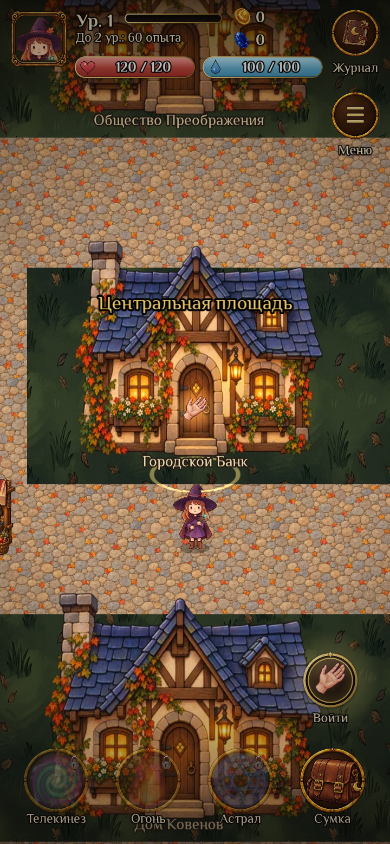
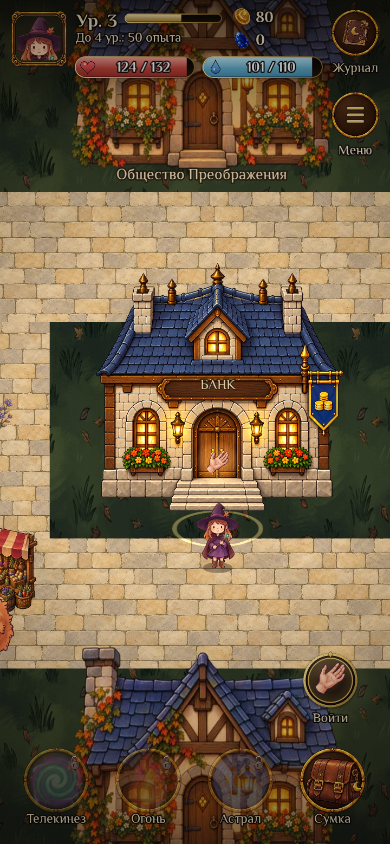
Finish square, Bank and Archive art and interaction paths

diff --git a/src/config/city.plan.js b/src/config/city.plan.js
@@ -1,4 +1,4 @@
-// Playable blockout of the approved spacious town. Coordinate islands use the
+// Approved spacious town with production art for the square, Bank and Archive. Coordinate islands use the
 // existing server-persisted x/y format; rooms never overlap outdoor locations.
 export const CITY_ORIGIN = { x: 6720, y: 600 };
 export const CITY_RECT = { x: 6000, y: 600, w: 3720, h: 4320 };
@@ -19,7 +19,7 @@ export const BUILDINGS = [
   ['lab','Тайная лаборатория',-700,2920,380,380,-510,3300,'ch2_lab_open'],
 ].map(([id,name,x,y,w,h,dx,dy,requires]) => ({ id,name,...cityPoint(x,y),w,h,door:cityPoint(dx,dy),requires }));
 const layouts = [
-  ['bank','Городской Банк',10200,200,720,960],
+  ['bank','Городской Банк',10200,200,720,1440],
   ['archive','Городской Архив',11800,200,900,1500],
   ['society','Общество Преображения',13400,200,900,1320],
   ['lab','Тайная лаборатория',10200,2600,960,2160],
@@ -54,8 +54,9 @@ export const CITY_POSITIONS = Object.fromEntries([
   ['city_board',cityPoint(370,2430)],['npc_merchant',cityPoint(2120,2930)],
   ['plaza_trace',cityPoint(1540,2740)],['plaza_debris',cityPoint(1930,2370)],
   ['sapphire_city_cache_1',cityPoint(730,2710)],['sapphire_city_cache_2',cityPoint(2040,3470)],
-  ['npc_ilaria',rp('archive',260,1050)],['archive_document',rp('archive',330,650)],
-  ['npc_severin',rp('society',360,710)],['npc_banker',rp('bank',360,510)],
+  // The document sorts one pixel in front of the desk, with its art on the tabletop.
+  ['npc_ilaria',rp('archive',260,1050)],['archive_document',{...rp('archive',330,716),elevated:41}],
+  ['npc_severin',rp('society',360,710)],['npc_banker',{...rp('bank',360,350),approach:rp('bank',360,510)}],
   ['npc_rowena',rp('coven',270,610)],['npc_duelist',rp('duel',260,1280)],
   ['frost_barrier',{...cityPoint(1500,1520),collide:{w:540,h:40},editorStyle:{w:580,h:160}}],
   ['fq_water',{...cityPoint(1500,780),collide:{w:540,h:40},editorStyle:{w:540,h:90}}],
@@ -102,16 +103,16 @@ export function cityZoneData() {
 const rect=(id,x,y,w,h,tex,more={})=>({id,...cityPoint(x,y),w,h,tex,...more});
 export function cityMapData() {
   const grounds=[
-    rect('city_plaza',600,2220,1640,680,'city_paving'),
-    rect('city_avenue',1100,40,800,4240,'city_paving'),
-    rect('city_carriage_lane',1320,40,360,4240,'city_paving',{tint:0xa99c85}),
-    rect('city_entry',-720,2300,1320,440,'stone_path_01'),
+    rect('city_plaza',600,2220,1640,680,'city_final_paving',{tileScale:0.18}),
+    rect('city_avenue',1100,40,800,4240,'city_final_paving',{tileScale:0.18}),
+    rect('city_entry',-720,2300,1320,440,'city_final_paving',{tileScale:0.18}),
     rect('city_lab_path',-300,2740,240,800,'dirt_path_01'),
-    rect('city_lab_forecourt',-700,3300,640,240,'stone_path_01'),
-    rect('city_frost_quarter',40,800,2920,680,'city_paving_frost',{alpha:0.55,layerOffset:0.2}),
-    rect('city_frost_plaza',600,2220,1640,680,'city_paving_frost',{alpha:0.6,layerOffset:0.2}),
-    ...[560,1260,2100,2740,3400,4100].map((y,i)=>rect('city_cross_'+i,60,y,2880,240,'city_paving')),
-    ...CITY_ROOMS.map(r=>({id:'floor_'+r.id,...r.rect,tex:['archive','coven','bank','cellar','rescue'].includes(r.key)?'city_wood_floor':'city_stone_floor',interior:true})),
+    rect('city_lab_forecourt',-700,3300,640,240,'city_final_paving',{tileScale:0.18}),
+    ...[560,1260,2100,2740,3400,4100].map((y,i)=>rect('city_cross_'+i,60,y,2880,240,'city_final_paving',{tileScale:0.18})),
+    rect('city_carriage_lane',1320,40,360,4240,'city_final_paving',{tileScale:0.18,tint:0xc4b499}),
+    rect('city_frost_quarter',40,800,2920,680,'city_final_paving',{tileScale:0.18,tint:0x92cddd,alpha:0.55,layerOffset:0.2}),
+    rect('city_frost_plaza',600,2220,1640,680,'city_final_paving',{tileScale:0.18,tint:0x92cddd,alpha:0.6,layerOffset:0.2}),
+    ...CITY_ROOMS.map(r=>({id:'floor_'+r.id,...r.rect,tex:['archive','bank'].includes(r.key)?'city_final_wood_floor':['coven','cellar','rescue'].includes(r.key)?'city_wood_floor':'city_stone_floor',tileScale:['archive','bank'].includes(r.key)?0.22:0.5,interior:true})),
   ];
   const colliders=[];
   const col=(id,x,y,w,h,kind='ruin',extra={})=>colliders.push({id:'city_plan_'+id,...cityPoint(x,y),w,h,kind,...extra});
@@ -121,9 +122,10 @@ export function cityMapData() {
   // Forest confines the approach without blocking the side path to the lab.
   [[-720,0,720,2300],[-720,2740,420,180],[-60,2740,60,1580],[-720,3540,720,780]].forEach((a,i)=>col('edge_'+i,...a,'trees'));
   for(const b of BUILDINGS)colliders.push({id:'city_plan_building_'+b.id,kind:'furniture',x:b.x,y:b.y,w:b.w,h:b.h,
-    tex:b.id.startsWith('warehouse_')?'city_warehouse':b.id==='rescue'?'city_frozen_house':'city_house',
-    editorStyle:{w:b.w,h:b.h},building:b.id});
-  col('fountain',860,2460,180,180,'furniture',{tex:'city_fountain',editorStyle:{w:180,h:230}});
+    tex:b.id==='bank'?'city_final_bank_exterior':b.id==='archive'?'city_final_archive_exterior':b.id.startsWith('warehouse_')?'city_warehouse':b.id==='rescue'?'city_frozen_house':'city_house',
+    editorStyle:{w:b.w,h:b.id==='bank'?460:b.id==='archive'?490:b.h},building:b.id});
+  col('fountain',860,2460,180,180,'furniture',{tex:'city_final_fountain',editorStyle:{w:210,h:200}});
+  for(const [i,[x,y]] of [[710,2390],[710,2770],[1940,2540]].entries())col('bench_'+i,x,y,160,28,'furniture',{tex:'city_final_bench'});
   col('market',2010,2800,220,80,'furniture',{tex:'market_stall_01'});
   for(const r of CITY_ROOMS) {
     const {x,y,w,h}=r.rect,t=24;
@@ -133,12 +135,15 @@ export function cityMapData() {
     for(const dx of xs){colliders.push({id:r.id+'_wall_bottom_'+dx,kind:'wall',tex:'city_timber',x:x+last,y:y+h-t,w:dx-90-last,h:t});last=dx+90;}
     colliders.push({id:r.id+'_wall_end',kind:'wall',tex:'city_timber',x:x+last,y:y+h-t,w:w-last,h:t});
   }
-  const furniture=(key,id,x,y,w,h,tex)=>colliders.push({id:'room_'+id,kind:'furniture',...rp(key,x,y),w,h,tex});
-  furniture('bank','counter',235,355,250,35,'city_bank_counter');
+  const furniture=(key,id,x,y,w,h,tex,extra={})=>colliders.push({id:'room_'+id,kind:'furniture',...rp(key,x,y),w,h,tex,...extra});
+  furniture('bank','counter',150,400,420,40,'city_final_bank_counter');
   furniture('bank','safe',520,230,80,35,'city_bank_safe');
-  furniture('archive','shelf_left',70,280,140,35,'city_archive_shelf');
-  furniture('archive','shelf_right',630,280,140,35,'city_archive_shelf');
-  furniture('archive','desk',245,680,160,35,'city_archive_desk');
+  furniture('archive','shelf_left',50,380,170,35,'city_final_archive_shelf');
+  furniture('archive','shelf_right',680,380,170,35,'city_final_archive_shelf');
+  furniture('archive','shelf_middle_left',50,800,170,35,'city_final_archive_shelf');
+  furniture('archive','shelf_middle_right',680,800,170,35,'city_final_archive_shelf');
+  furniture('archive','shelf_lower_right',680,1170,170,35,'city_final_archive_shelf');
+  furniture('archive','desk',220,680,240,35,'city_final_archive_desk');
   furniture('society','bench',110,350,190,40,'city_society_workbench');
   furniture('society','reservoir',690,370,70,40,'city_coolant_stable');
   furniture('coven','table',130,380,170,30,'city_coven_table');
@@ -154,10 +159,23 @@ export function cityMapData() {
   furniture('warehouse','crate_b',1170,300,100,30,'city_crate');
   for(const key of ['cellar','rescue']){furniture(key,key+'_bed',100,320,70,30,'bed_01');furniture(key,key+'_shelf',510,250,140,35,'city_archive_shelf');}
   const props=[];
+  const roomProp=(key,id,k,x,y,extra={})=>props.push({id:'room_decor_'+key+'_'+id,k,...rp(key,x,y),solid:null,...extra});
+  roomProp('bank','back_wall','city_final_bank_wall',360,250,{l:'back'});
+  roomProp('archive','back_wall','city_final_archive_wall',450,290,{l:'back'});
+  roomProp('bank','rug','city_final_bank_rug',360,760,{l:'room-floor'});
+  roomProp('archive','rug','city_final_archive_rug',450,1210,{l:'room-floor'});
+  roomProp('bank','waiting_bench','city_final_bench',140,650,{solid:{w:150,h:24}});
+  roomProp('bank','entry_bench','city_final_bench',580,1130,{solid:{w:150,h:24}});
+  roomProp('bank','entry_plant','plant_pot_01',70,1240,{solid:{w:28,h:14}});
+  roomProp('bank','plant_left','plant_pot_01',70,510,{solid:{w:28,h:14}});
+  roomProp('bank','plant_right','plant_pot_01',650,510,{solid:{w:28,h:14}});
+  roomProp('archive','plant_left','plant_pot_01',80,1300,{solid:{w:28,h:14}});
+  roomProp('archive','plant_right','plant_pot_01',820,1300,{solid:{w:28,h:14}});
   const prop=(id,k,x,y,extra={})=>props.push({id:'city_plan_'+id,k,...cityPoint(x,y),solid:null,...extra});
   for(const [i,[x,y]] of [[1050,2160],[1940,2160],[1050,2900],[1940,2900],[1040,3490],[1940,3490],[80,550],[2900,550]].entries())prop('lamp_'+i,'city_lamp_01',x,y);
   for(const [i,[x,y]] of [[850,1750],[2100,1750],[820,3010],[2100,3010],[80,860],[2900,860],[80,3750],[2900,3750]].entries())prop('tree_'+i,i%2?'tree_autumn_01':'tree_autumn_02',x,y);
   prop('archive_sign','city_sign_archive',810,2140);prop('society_sign','city_sign_society',2110,2140);
+  for(const [i,[x,y]] of [[700,2560],[1080,2560],[710,2840],[2140,2540]].entries())prop('plaza_flowers_'+i,'flower_purple_01',x,y,{w:64,h:62});
   prop('duel_sign','city_sign_duel',890,3430);prop('coven_sign','city_sign_coven',2110,3430);
   return {grounds,colliders,props};
 }

diff --git a/supabase/functions/combat/index.ts b/supabase/functions/combat/index.ts
@@ -782,7 +782,7 @@ var BUILDINGS = [
   ["lab", "\u0422\u0430\u0439\u043D\u0430\u044F \u043B\u0430\u0431\u043E\u0440\u0430\u0442\u043E\u0440\u0438\u044F", -700, 2920, 380, 380, -510, 3300, "ch2_lab_open"]
 ].map(([id, name, x, y, w, h, dx, dy, requires]) => ({ id, name, ...cityPoint(x, y), w, h, door: cityPoint(dx, dy), requires }));
 var layouts = [
-  ["bank", "\u0413\u043E\u0440\u043E\u0434\u0441\u043A\u043E\u0439 \u0411\u0430\u043D\u043A", 10200, 200, 720, 960],
+  ["bank", "\u0413\u043E\u0440\u043E\u0434\u0441\u043A\u043E\u0439 \u0411\u0430\u043D\u043A", 10200, 200, 720, 1440],
   ["archive", "\u0413\u043E\u0440\u043E\u0434\u0441\u043A\u043E\u0439 \u0410\u0440\u0445\u0438\u0432", 11800, 200, 900, 1500],
   ["society", "\u041E\u0431\u0449\u0435\u0441\u0442\u0432\u043E \u041F\u0440\u0435\u043E\u0431\u0440\u0430\u0436\u0435\u043D\u0438\u044F", 13400, 200, 900, 1320],
   ["lab", "\u0422\u0430\u0439\u043D\u0430\u044F \u043B\u0430\u0431\u043E\u0440\u0430\u0442\u043E\u0440\u0438\u044F", 10200, 2600, 960, 2160],
@@ -852,10 +852,11 @@ var CITY_POSITIONS = Object.fromEntries([
   ["plaza_debris", cityPoint(1930, 2370)],
   ["sapphire_city_cache_1", cityPoint(730, 2710)],
   ["sapphire_city_cache_2", cityPoint(2040, 3470)],
+  // The document sorts one pixel in front of the desk, with its art on the tabletop.
   ["npc_ilaria", rp("archive", 260, 1050)],
-  ["archive_document", rp("archive", 330, 650)],
+  ["archive_document", { ...rp("archive", 330, 716), elevated: 41 }],
   ["npc_severin", rp("society", 360, 710)],
-  ["npc_banker", rp("bank", 360, 510)],
+  ["npc_banker", { ...rp("bank", 360, 350), approach: rp("bank", 360, 510) }],
   ["npc_rowena", rp("coven", 270, 610)],
   ["npc_duelist", rp("duel", 260, 1280)],
   ["frost_barrier", { ...cityPoint(1500, 1520), collide: { w: 540, h: 40 }, editorStyle: { w: 580, h: 160 } }],

diff --git a/src/world/CityPresentation.js b/src/world/CityPresentation.js
@@ -10,8 +10,9 @@ export class CityPresentation {
     this.scene = scene;
     this.images = [];
     for(const b of BUILDINGS){
-      const text=scene.add.text(b.door.x,b.door.y+25,b.name,{
-        fontFamily:'Philosopher',fontSize:'28px',color:'#e7d6ad',stroke:'#251c14',strokeThickness:5,
+      const plaque=b.id==='bank'||b.id==='archive';
+      const text=scene.add.text(b.door.x,b.door.y+(b.id==='bank'?-220:b.id==='archive'?-166:25),plaque?(b.id==='bank'?'БАНК':'АРХИВ'):b.name,{
+        fontFamily:'Philosopher',fontSize:plaque?'25px':'28px',color:'#e7d6ad',stroke:'#251c14',strokeThickness:plaque?3:5,
       }).setOrigin(0.5,1).setDepth(DEPTH.markers-2);
       this.images.push(text);
     }
@@ -34,9 +35,9 @@ export class CityPresentation {
         applyDisplaySize(im, im.texture.key);
       }
     }
-    const fountain = this.scene.colliderObjects?.find(im => ['fountain_frozen', 'city_fountain'].includes(im.texture?.key));
-    if (fountain && this.scene.textures.exists('city_fountain')) {
-      const key = !thawed && (state.hasEvent('ch2_city_arrived') || editor) ? 'fountain_frozen' : 'city_fountain';
+    const fountain = this.scene.colliderObjects?.find(im => ['city_final_fountain_frozen', 'city_final_fountain'].includes(im.texture?.key));
+    if (fountain && this.scene.textures.exists('city_final_fountain')) {
+      const key = !thawed && (state.hasEvent('ch2_city_arrived') || editor) ? 'city_final_fountain_frozen' : 'city_final_fountain';
       fountain.setTexture(key); applyDisplaySize(fountain, key);
     }
     for(const {c,img} of this.scene.colliderViews.values())if(c.editorStyle)this.scene.styleImage(img,c.editorStyle,img.texture.key);

diff --git a/src/config/assets.manifest.js b/src/config/assets.manifest.js
@@ -9,6 +9,7 @@
 
 import { CHAPTER2_FILES, CHAPTER2_SIZES } from './chapter2.art.generated.js';
 import { CITY_INTERIOR_FILES, CITY_INTERIOR_SIZES } from './city.interiors.generated.js';
+import { CITY_FINAL_FILES, CITY_FINAL_SIZES } from './city.final.art.js';
 
 export const ASSET_FILES = {
   welcome_cover: 'assets/ui/welcome-cover-v1.webp',
@@ -94,6 +95,8 @@ Object.assign(ASSET_FILES, CHAPTER2_FILES);
 Object.assign(DISPLAY_SIZE, CHAPTER2_SIZES);
 Object.assign(ASSET_FILES, CITY_INTERIOR_FILES);
 Object.assign(DISPLAY_SIZE, CITY_INTERIOR_SIZES);
+Object.assign(ASSET_FILES, CITY_FINAL_FILES);
+Object.assign(DISPLAY_SIZE, CITY_FINAL_SIZES);
 
 /** Рисунки-заглушки, не готовые к релизу. Оба героя используют финальные PNG. */
 export const TEMPORARY_ART = [];

diff --git a/src/config/city.final.art.js b/src/config/city.final.art.js
@@ -1,0 +1,13 @@
+// Production sprites, derived from the approved house and spacious town concepts.
+// World sprites use the bottom centre as their pivot; floor tiles stay walkable.
+const sizes = {
+  bank_exterior: [500, 460], archive_exterior: [540, 490],
+  paving: [224, 224], wood_floor: [276, 276],
+  bank_counter: [440, 147], archive_shelf: [220, 200], archive_desk: [260, 130],
+  bank_wall: [672, 224], archive_wall: [852, 284],
+  bench: [160, 80], fountain: [210, 200], fountain_frozen: [210, 200],
+  bank_rug: [360, 250], archive_rug: [410, 290],
+};
+export const CITY_FINAL_FILES = Object.fromEntries(Object.keys(sizes).map(k =>
+  ['city_final_' + k, 'assets/city-final/' + k + '-v1.webp']));
+export const CITY_FINAL_SIZES = Object.fromEntries(Object.entries(sizes).map(([k,v]) => ['city_final_' + k,v]));

diff --git a/src/scenes/ExplorationScene.js b/src/scenes/ExplorationScene.js
@@ -969,7 +969,8 @@ export class ExplorationScene extends Phaser.Scene {
     if (!this.canAct()) return;
     const wp = this.cameras.main.getWorldPoint(x, y);
     const obj = this.interaction.pick(wp.x, wp.y);
-    const goal = obj ? { x: obj.x, y: obj.y } : { x: wp.x, y: wp.y };
+    // Service NPCs can provide a visitor spot on the accessible side of furniture.
+    const goal = obj ? obj.cfg.approach || { x: obj.x, y: obj.y } : { x: wp.x, y: wp.y };
     const route = this.planPath(goal.x, goal.y);
     // куда на самом деле дойдём: закрытая цель → ближайшая достижимая точка (метка ставится туда)
     const end = route?.end || goal;

diff --git a/src/world/mapData.js b/src/world/mapData.js
@@ -74,6 +74,7 @@ export function applyPos(list, pos = {}) {
     if (!m || (!dx && !dy)) return out; // всегда копия: редактор меняет cfg, а исходные данные трогать нельзя
     out.x = cfg.x + dx; out.y = cfg.y + dy;
     if (cfg.target) out.target = { x: cfg.target.x + dx, y: cfg.target.y + dy };
+    if (cfg.approach) out.approach = { x: cfg.approach.x + dx, y: cfg.approach.y + dy };
     if (cfg.panOnOpen) out.panOnOpen = { x: cfg.panOnOpen.x + dx, y: cfg.panOnOpen.y + dy };
     return out;
   });

diff --git a/docs/releases/v0.36.0.md b/docs/releases/v0.36.0.md
@@ -1,6 +1,8 @@
-# v0.36.0 — просторный город и отдельные помещения
+# v0.36.0 — просторный город, отдельные помещения и графика Банка и Архива
 
-Игровая планировка согласованного города: центральная улица шириной 800 пикселей, отдельная полоса 360 пикселей под будущие кареты, поперечные проходы и свободные площадки перед домами. Двенадцать фасадов используют существующие игровые изображения. Это этап проверки масштаба и движения; новые индивидуальные фасады, интерьерная графика, прохожие, дети и кареты ещё не реализованы.
+Игровая планировка согласованного города: центральная улица шириной 800 пикселей, отдельная полоса 360 пикселей под будущие кареты, поперечные проходы и свободные площадки перед домами. Банк и Архив получили индивидуальные фасады и оформленные интерьеры из выбранного дизайн-пакета. На улицах — новая каменная мостовая, на площади — фонтан с обычным и замёрзшим состояниями, скамейки и цветы. Остальные десять фасадов используют прежние игровые изображения; их индивидуальная графика и городской трафик остаются следующим этапом.
+
+Новые помещения собраны из отдельных спрайтов: стены, паркет, стойка, книжные шкафы, письменный стол и ковры. Мебель перекрывает персонажа в зависимости от его положения, пол и ковры проходимы. Агата стоит за стойкой, нажатие на неё ведёт к месту посетителя перед стойкой. Илария и отдельный квестовый документ доступны через широкий центральный проход Архива. Подписи на фасадах рисуются игрой. Добавлены 14 WebP-изображений с отдельными ключами; старые файлы сохранены. Описания генерации находятся в `public/assets/city-final/provenance.json`.
 
 Банк, Архив, Общество Преображения, лаборатория, Дуэльный зал, Ковены, складской комплекс и два спасаемых дома открываются отдельными игровыми сценами через кнопку действия. Комната занимает игровое поле, камера следует за героиней. Два складских входа ведут в одно помещение: прежние враги и предметы существуют в единственном экземпляре. Два северных фоновых дома остаются без входов. Дом Мирры сохраняет прежнее поведение.
 
@@ -12,7 +14,9 @@
 
 ## Проверка и выпуск
 
-`npm test`, `npm run test:admin`, `npm run build`, `npm run check:bundle`, `npm run test:city-rooms`.
+`npm test`, `npm run test:admin`, `npm run build`, `npm run check:bundle`, `npm run test:city-rooms`, `npm run test:city-graphics`.
+
+`test:city-graphics` проверяет реальные нажатия на Агату через стойку, разговор с Иларией и применение Астрала к отдельному документу, а также смену состояния нового фонтана. Проверка проходит на 390×844, 320×568 и 1280×900. Снимки показывают реальные игровые сцены с героиней, без временных уведомлений.
 
 Браузерный тест проверяет 390×844, 320×568 и 1280×900: входы/выходы, движение в комнатах, перезагрузку внутри банка и закрытую лабораторию. Дополнительная проверка 390×844 покрывает нажатие на пол для движения, границы камеры и перезагрузку посреди настоящего боя на складе: возврат в ту же комнату, ручной повтор и отсутствие награды за прерывание. Проверка карты покрывает все фасады и комнаты, северные квестовые преграды, старые сохранения и черновики редактора. Снимки создаются вне репозитория в `CITY_SHOTS_DIR`.
 

diff --git a/docs/qa/v0.36.0.md b/docs/qa/v0.36.0.md
@@ -1,6 +1,6 @@
 # Проверка игрового города v0.36.0
 
-Проверена рабочая планировка на существующих изображениях. Новая архитектура из дизайн-пакета и городской трафик остаются следующим этапом. На снимках видны реальные Phaser-сцены; квестовые уведомления скрыты для просмотра пространства.
+Проверены просторная планировка, новые фасады и помещения Банка и Архива, мостовая и оформление площади. Остальные десять фасадов и городской трафик остаются следующим этапом. На снимках видны реальные Phaser-сцены с героиней; временные уведомления скрыты для просмотра пространства.
 
 | Проверка | Результат |
 | --- | --- |
@@ -17,9 +17,18 @@
 | `npm test`, `npm run test:admin`, сборка и проверка сборки | Пройдены |
 | Серверный каталог админки и сгенерированный обработчик боя | Совпадают с исходниками |
 | `_game_rules()` в существующей SQL-схеме | Совпадает с новым клиентом |
+| Нажатие на Агату ведёт перед стойкой и открывает разговор: 390×844, 320×568, 1280×900 | Пройдена |
+| Разговор с Иларией и чтение документа на столе через Астрал: те же три экрана | Пройдена |
+| Фонтан меняет новую замёрзшую графику на обычную по сюжетному событию | Пройдена |
+| Коллизии скамейки и растений; ковры и мостовая остаются проходимыми | Пройдена |
+| Новые спрайты и материалы: размеры, слои, прозрачность, масштаб относительно героини | Проверены визуально |
 
 Браузерные проверки выполнялись в Playwright с локальным сохранением. Рабочая база и опубликованная игра не изменялись.
 
 ![Улица у банка](v0.36.0/bank-approach.png)
 
+![Банк, Агата за стойкой](v0.36.0/bank-room.png)
+
 ![Отдельный экран Архива](v0.36.0/archive-room.png)
+
+![Площадь после снятия заклятия](v0.36.0/square.png)
